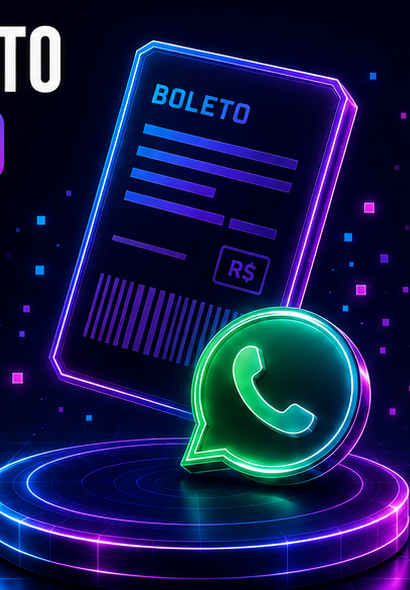
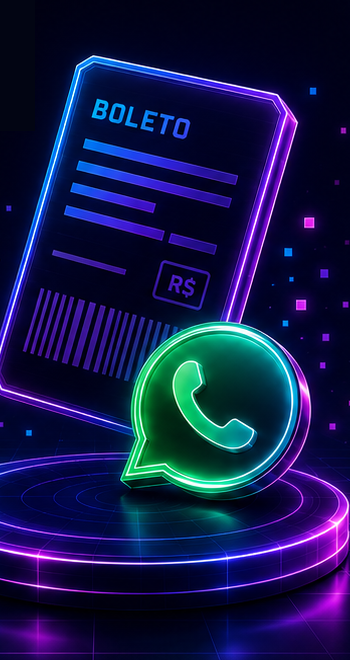
Correções Visuais 0.3

diff --git a/styles.css b/styles.css
@@ -425,3 +425,189 @@ legend{padding:0 0 14px;color:#aab6e8;font-size:.8rem;font-weight:850;letter-spa
   .how-strip ol{grid-template-columns:1fr;column-gap:0}
   .how-strip li:not(:last-child)::after{display:none}
 }
+
+/* Pixel Neon v3.3 — restaura a ilustração neon sem cruzar o título */
+
+/* A coluna esquerda usa uma grade interna: texto e ilustração nunca ocupam
+   a mesma célula. Isso elimina a sobreposição e preserva a base neon. */
+@media (min-width:981px){
+  .main-layout{
+    grid-template-columns:minmax(0,1.04fr) minmax(500px,.96fr);
+    gap:68px;
+    align-items:start;
+  }
+
+  .hero{
+    display:grid;
+    grid-template-columns:minmax(315px,.56fr) minmax(250px,.44fr);
+    grid-template-areas:
+      "kicker kicker"
+      "title visual"
+      "copy visual"
+      "benefits visual";
+    column-gap:30px;
+    row-gap:0;
+    align-items:start;
+    min-height:735px;
+    padding-bottom:0;
+  }
+
+  .hero-kicker{
+    grid-area:kicker;
+    justify-self:start;
+    margin-bottom:28px;
+  }
+
+  .hero h1{
+    grid-area:title;
+    margin:0;
+    width:100%;
+    max-width:360px;
+    font-family:Impact,Haettenschweiler,"Arial Narrow Bold","Segoe UI Condensed",sans-serif;
+    font-size:clamp(3.25rem,4.15vw,4.35rem);
+    font-weight:900;
+    line-height:.91;
+    letter-spacing:.006em;
+    gap:.055em;
+    position:relative;
+    z-index:3;
+  }
+
+  .hero-line{
+    display:block;
+    width:100%;
+    max-width:100%;
+    white-space:nowrap;
+  }
+
+  .hero-copy{
+    grid-area:copy;
+    width:100%;
+    max-width:350px;
+    margin:24px 0 0;
+    position:relative;
+    z-index:3;
+  }
+
+  .hero-visual{
+    grid-area:visual;
+    align-self:center;
+    justify-self:center;
+    width:min(330px,100%);
+    height:625px;
+    margin:0;
+    overflow:visible;
+    position:relative;
+    z-index:1;
+  }
+
+  .hero-visual::before{
+    content:"";
+    position:absolute;
+    left:50%;
+    bottom:18px;
+    width:118%;
+    height:34%;
+    transform:translateX(-50%);
+    border-radius:50%;
+    background:radial-gradient(ellipse at center,
+      rgba(27,111,255,.22) 0%,
+      rgba(118,55,255,.16) 42%,
+      rgba(255,42,174,.09) 62%,
+      transparent 76%);
+    filter:blur(20px);
+    pointer-events:none;
+  }
+
+  .hero-visual img{
+    display:block;
+    width:100%;
+    height:100%;
+    object-fit:contain;
+    object-position:center bottom;
+    filter:saturate(1.12) contrast(1.08) drop-shadow(0 0 14px rgba(36,135,255,.20)) drop-shadow(0 0 18px rgba(255,42,174,.12));
+    -webkit-mask-image:none;
+    mask-image:none;
+    position:relative;
+    z-index:2;
+  }
+
+  .benefit-list{
+    grid-area:benefits;
+    width:100%;
+    max-width:355px;
+    align-self:end;
+    margin:30px 0 0;
+    position:relative;
+    z-index:3;
+  }
+
+  .request-panel{
+    position:relative;
+    z-index:4;
+  }
+}
+
+/* Larguras intermediárias continuam em duas colunas, mas com título menor e
+   uma folga maior antes do painel. */
+@media (min-width:981px) and (max-width:1220px){
+  .page-shell{padding:0 24px}
+  .main-layout{
+    grid-template-columns:minmax(0,1fr) minmax(455px,.94fr);
+    gap:42px;
+  }
+  .hero{
+    grid-template-columns:minmax(275px,.55fr) minmax(215px,.45fr);
+    column-gap:22px;
+  }
+  .hero h1{
+    max-width:310px;
+    font-size:clamp(2.9rem,4.4vw,3.65rem);
+  }
+  .hero-copy{max-width:300px;font-size:.92rem}
+  .hero-visual{width:min(285px,100%);height:560px}
+  .benefit-list{max-width:320px}
+}
+
+/* Em telas menores, cada bloco volta ao fluxo vertical. A ilustração aparece
+   inteira entre o texto e os benefícios, sem invadir nenhuma área. */
+@media (max-width:980px){
+  .hero{
+    display:block;
+    min-height:0;
+  }
+  .hero h1{
+    max-width:650px;
+  }
+  .hero-line{
+    white-space:normal;
+  }
+  .hero-visual{
+    display:block;
+    width:min(430px,92vw);
+    height:540px;
+    margin:18px auto 8px;
+    overflow:visible;
+  }
+  .hero-visual img{
+    display:block;
+    width:100%;
+    height:100%;
+    object-fit:contain;
+    object-position:center;
+    -webkit-mask-image:none;
+    mask-image:none;
+  }
+}
+
+@media (max-width:680px){
+  .hero h1{
+    font-size:clamp(3rem,15.8vw,4.35rem);
+    line-height:.91;
+  }
+  .hero-visual{
+    width:min(365px,96vw);
+    height:465px;
+    margin:14px auto 4px;
+  }
+}

diff --git a/index.html b/index.html
@@ -7,9 +7,6 @@
   <meta name="description" content="Solicitação interna de boletos da Credvix com recebimento automático pelo WhatsApp.">
   <title>Boleto Credvix</title>
   <link rel="icon" href="assets/favicon.svg" type="image/svg+xml">
-  <link rel="preconnect" href="https://fonts.googleapis.com">
-  <link rel="preconnect" href="https://fonts.gstatic.com" crossorigin>
-  <link href="https://fonts.googleapis.com/css2?family=Anton&family=Rajdhani:wght@600;700&display=swap" rel="stylesheet">
   <link rel="stylesheet" href="styles.css">
   <script src="config.js" defer></script>
   <script src="app.js" defer></script>
@@ -49,7 +46,7 @@
         <p class="hero-copy">Em poucos segundos, você solicita e recebe seu boleto diretamente no <strong>WhatsApp.</strong></p>
 
         <div class="hero-visual" aria-hidden="true">
-          <img src="assets/hero-approved-clean.png" alt="">
+          <img src="assets/hero-approved.png" alt="">
         </div>
 
         <ul class="benefit-list" aria-label="Benefícios do serviço">
@@ -78,8 +75,8 @@
         <form id="request-form" novalidate>
           <input type="text" name="website" id="website" class="honeypot" tabindex="-1" autocomplete="off" aria-hidden="true">
 
-          <section class="form-section">
-            <h3 class="section-title">DADOS DO SOLICITANTE</h3>
+          <fieldset>
+            <legend><span class="legend-icon">♙</span> DADOS DO SOLICITANTE</legend>
 
             <label class="field field-full">
               <span>Nome completo *</span>
@@ -125,10 +122,10 @@
               <input id="codigoAcesso" name="codigoAcesso" type="password" autocomplete="one-time-code" maxlength="32" placeholder="Código fornecido pela supervisão">
               <small class="field-error"></small>
             </label>
-          </section>
+          </fieldset>
 
-          <section class="form-section parcel-fieldset">
-            <h3 class="section-title">ESCOLHA A PARCELA</h3>
+          <fieldset class="parcel-fieldset">
+            <legend><span class="legend-icon">▤</span> ESCOLHA A PARCELA</legend>
 
             <div class="request-type" role="radiogroup" aria-label="Tipo de parcela">
               <label class="option-row">
@@ -173,7 +170,7 @@
                 </label>
               </div>
             </div>
-          </section>
+          </fieldset>
 
           <label class="consent">
             <input id="consentimento" name="consentimento" type="checkbox" required>
